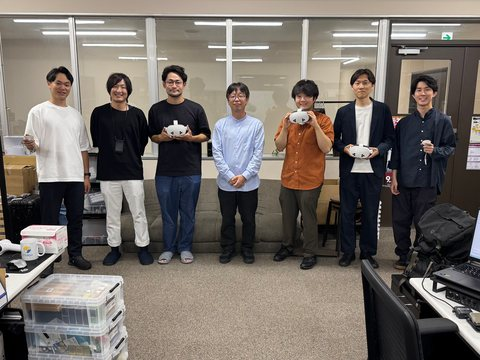
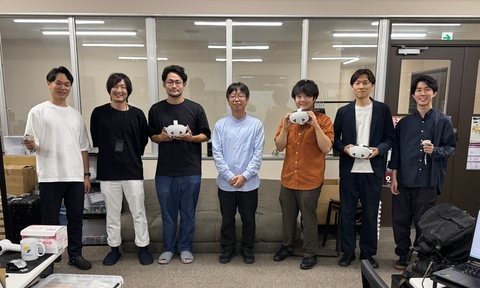
Add files via upload

diff --git a/about.html b/about.html
@@ -77,6 +77,7 @@
         .history-item h3 { font-size: 1.15rem; line-height: 1.5; margin-bottom: 0.6rem; }
         .history-item p { color: var(--text-secondary); line-height: 1.9; font-size: 0.93rem; }
         .history-photo { margin: 0; max-width: 480px; border-radius: var(--radius-md); overflow: hidden; border: 1px solid var(--border-color); background: var(--bg-card); }
+        .history-photos { display: grid; gap: 0.9rem; max-width: 480px; }
         .history-photo img { width: 100%; height: auto; display: block; }
         .history-photo figcaption { padding: 0.5rem 0.8rem; font-size: 0.78rem; color: var(--text-muted); border-top: 1px solid var(--border-color); }
         .history-roots { margin-top: 2.25rem; padding: 1.2rem 1.4rem; border: 1px dashed var(--border-color); border-radius: var(--radius-md); color: var(--text-secondary); font-size: 0.9rem; line-height: 1.85; }
@@ -242,9 +243,15 @@
                         <p><span class="ja">2020年度からは、情報理工学系研究科で葛岡・雨宮・鳴海研究室として活動しながら、VRセンターの研究グループとしての活動も進めてきました。工学部の学部生の卒業研究や大学院生の研究を指導し、学生とともに研究に取り組む体制が整っていきました。</span><span class="en" lang="en">From FY2020, we worked as the Kuzuoka–Amemiya–Narumi Lab in the Graduate School of Information Science and Technology, while continuing our activities as a research group of the VR Center. We supervised the graduation research of undergraduates in the Faculty of Engineering and the research of graduate students, and gradually built a team that carries out research together with students.</span></p>
                         <p><span class="ja">一方、新型コロナウイルス感染症の拡大により、研究会や研究指導はオンラインが中心となりました。参加者を募って行う実験にも大きな制約があり、自宅で実験を行うなど、限られた環境のなかで研究を進める工夫を重ねました。2021年頃からのメタバースへの関心の高まりも背景に、ソーシャルVRやアバタに関する研究にも力を入れるようになりました。</span><span class="en" lang="en">Meanwhile, with the spread of COVID-19, lab meetings and supervision moved mostly online. Experiments with recruited participants were also severely restricted, so we found ways to keep our research going in a limited environment, such as running experiments at home. With interest in the metaverse growing from around 2021, we also began to put more effort into research on social VR and avatars.</span></p>
                     </div>
-                    <figure class="history-photo">
-                        <img src="img/about/history-2020.jpg" alt="VRセンターの部屋が並ぶフロアの案内板" width="480" height="270" loading="lazy" decoding="async">
-                    </figure>
+                    <div class="history-photos">
+                        <figure class="history-photo">
+                            <img src="img/about/history-2020.jpg" alt="VRセンターの部屋が並ぶフロアの案内板" data-alt-ja="VRセンターの部屋が並ぶフロアの案内板" data-alt-en="Floor directory listing the rooms of the VR Center" width="480" height="198" loading="lazy" decoding="async">
+                        </figure>
+                        <figure class="history-photo">
+                            <img src="img/about/history-2020-2.jpg" alt="複数のノートパソコンにオンライン会議の画面を映して実験の準備をする様子" data-alt-ja="複数のノートパソコンにオンライン会議の画面を映して実験の準備をする様子" data-alt-en="Preparing an experiment with online meeting screens shown on several laptops" width="960" height="368" loading="lazy" decoding="async">
+                            <figcaption><span class="ja">オンラインを使った実験の様子</span><span class="en" lang="en">An experiment conducted online</span></figcaption>
+                        </figure>
+                    </div>
                 </li>
                 <li class="history-item" data-photo-item>
                     <div>
@@ -254,7 +261,7 @@
                         <p><span class="ja">学生が国際的な研究の場で成果を発信し、議論する経験を大切にしています。大学院在学中に少なくとも1回は国際会議で発表することを方針とし、自分の研究を世界の研究者に伝え、さまざまな視点からの意見に触れる機会を設けています。</span><span class="en" lang="en">We value the experience students gain by presenting and discussing their work in international research settings. Our policy is for every student to present at an international conference at least once during graduate school, so that they can share their research with researchers around the world and hear views from many different perspectives.</span></p>
                     </div>
                     <figure class="history-photo">
-                        <img src="img/about/history-2023.jpg" alt="情報基盤センターの研究室での集合写真" width="480" height="360" loading="lazy" decoding="async">
+                        <img src="img/about/history-2023.jpg" alt="情報基盤センターの研究室での集合写真" width="480" height="288" loading="lazy" decoding="async">
                     </figure>
                 </li>
                 <li class="history-item history-now" data-photo-item>
@@ -264,10 +271,16 @@
                         <p><span class="ja">現在は、情報基盤センター 浅野本館を拠点に、スタッフと学生が日々の研究に取り組んでいます。研究室では、つくった装置を互いに体験し、そこで感じたことをもとに議論する時間を大切にしています。実際に体験することで生まれる気づきや疑問を、装置の改良や次の実験につなげています。</span><span class="en" lang="en">Today, our staff and students carry out their daily research at the Asano Main Building of the Information Technology Center. In the lab, we value the time we spend trying out one another’s devices and discussing what we felt. The insights and questions that arise from first-hand experience lead to improvements to the devices and to the next experiments.</span></p>
                         <p><span class="ja">研究成果を伝える際にも、論文発表に加えて、実際に体験していただくデモ展示を重視しています。言葉や映像だけでは伝えきれない感覚の面白さを共有し、体験した方々との対話を通じて、研究の可能性を広げていきたいと考えています。</span><span class="en" lang="en">When we share our results, too, we place importance on demo exhibits that people can actually try, in addition to papers. We hope to share the fascination of the senses that words and video alone cannot convey, and to expand the possibilities of our research through dialogue with those who try our demos.</span></p>
                     </div>
-                    <figure class="history-photo">
-                        <img src="img/about/history-2026.jpg" alt="第31回日本バーチャルリアリティ学会大会での研究室メンバーの集合写真" width="480" height="360" loading="lazy" decoding="async">
-                        <figcaption><span class="ja">第31回日本バーチャルリアリティ学会大会にて（2026年9月）</span><span class="en" lang="en">At the 31st Annual Conference of the Virtual Reality Society of Japan (September 2026)</span></figcaption>
-                    </figure>
+                    <div class="history-photos">
+                        <figure class="history-photo">
+                            <img src="img/about/history-2026.jpg" alt="第31回日本バーチャルリアリティ学会大会での研究室メンバーの集合写真" width="480" height="360" loading="lazy" decoding="async">
+                            <figcaption><span class="ja">第31回日本バーチャルリアリティ学会大会にて（2026年9月）</span><span class="en" lang="en">At the 31st Annual Conference of the Virtual Reality Society of Japan (September 2026)</span></figcaption>
+                        </figure>
+                        <figure class="history-photo">
+                            <img src="img/about/history-2026-2.jpg" alt="学会のポスター発表の会場で、ヘッドマウントディスプレイを着けてデモを体験する来場者と、準備をする発表者" data-alt-ja="学会のポスター発表の会場で、ヘッドマウントディスプレイを着けてデモを体験する来場者と、準備をする発表者" data-alt-en="A visitor wearing a head-mounted display tries a demo at a conference poster session while the presenter sets it up" width="960" height="719" loading="lazy" decoding="async">
+                            <figcaption><span class="ja">学会でのデモ展示の様子</span><span class="en" lang="en">A demo exhibit at a conference</span></figcaption>
+                        </figure>
+                    </div>
                 </li>
             </ol>
             <p class="history-roots"><i class="fa-solid fa-seedling" aria-hidden="true"></i> <span class="ja">雨宮が東大着任前から続けてきた研究（非対称振動による牽引力錯覚「ぶるなび」など）は、研究紹介ページの<a href="research.html#past-pulling">「これまでの研究」</a>で紹介しています。ぶるなびの開発の経緯は<a href="buru-navi.html">「ぶるなびの歩み」</a>にまとめています。</span><span class="en" lang="en">Research that Amemiya has continued since before joining the University of Tokyo, such as the pulling illusion from asymmetric vibration (Buru-Navi), is introduced in <a href="research.html#past-pulling">Past Research</a>. The development of Buru-Navi is told in <a href="buru-navi.html">The Story of Buru-Navi</a>.</span></p>

diff --git a/assets/js/main.js b/assets/js/main.js
@@ -1392,7 +1392,12 @@
     /* ---------- 写真が無いときは写真の枠を出さない（data-photo-item） ---------- */
     document.querySelectorAll('[data-photo-item] img').forEach(function (img) {
         var item = img.closest('[data-photo-item]');
-        var fail = function () { var f = img.closest('figure'); if (f) f.remove(); item.classList.add('no-photo'); };
+        var fail = function () {
+            var f = img.closest('figure'); if (f) f.remove();
+            if (item.querySelector('figure')) return;   // ほかの写真が残っているときは枠を残す
+            var box = item.querySelector('.history-photos'); if (box) box.remove();
+            item.classList.add('no-photo');
+        };
         if (img.complete) { if (!img.naturalWidth) fail(); }
         else img.addEventListener('error', fail);
     });
